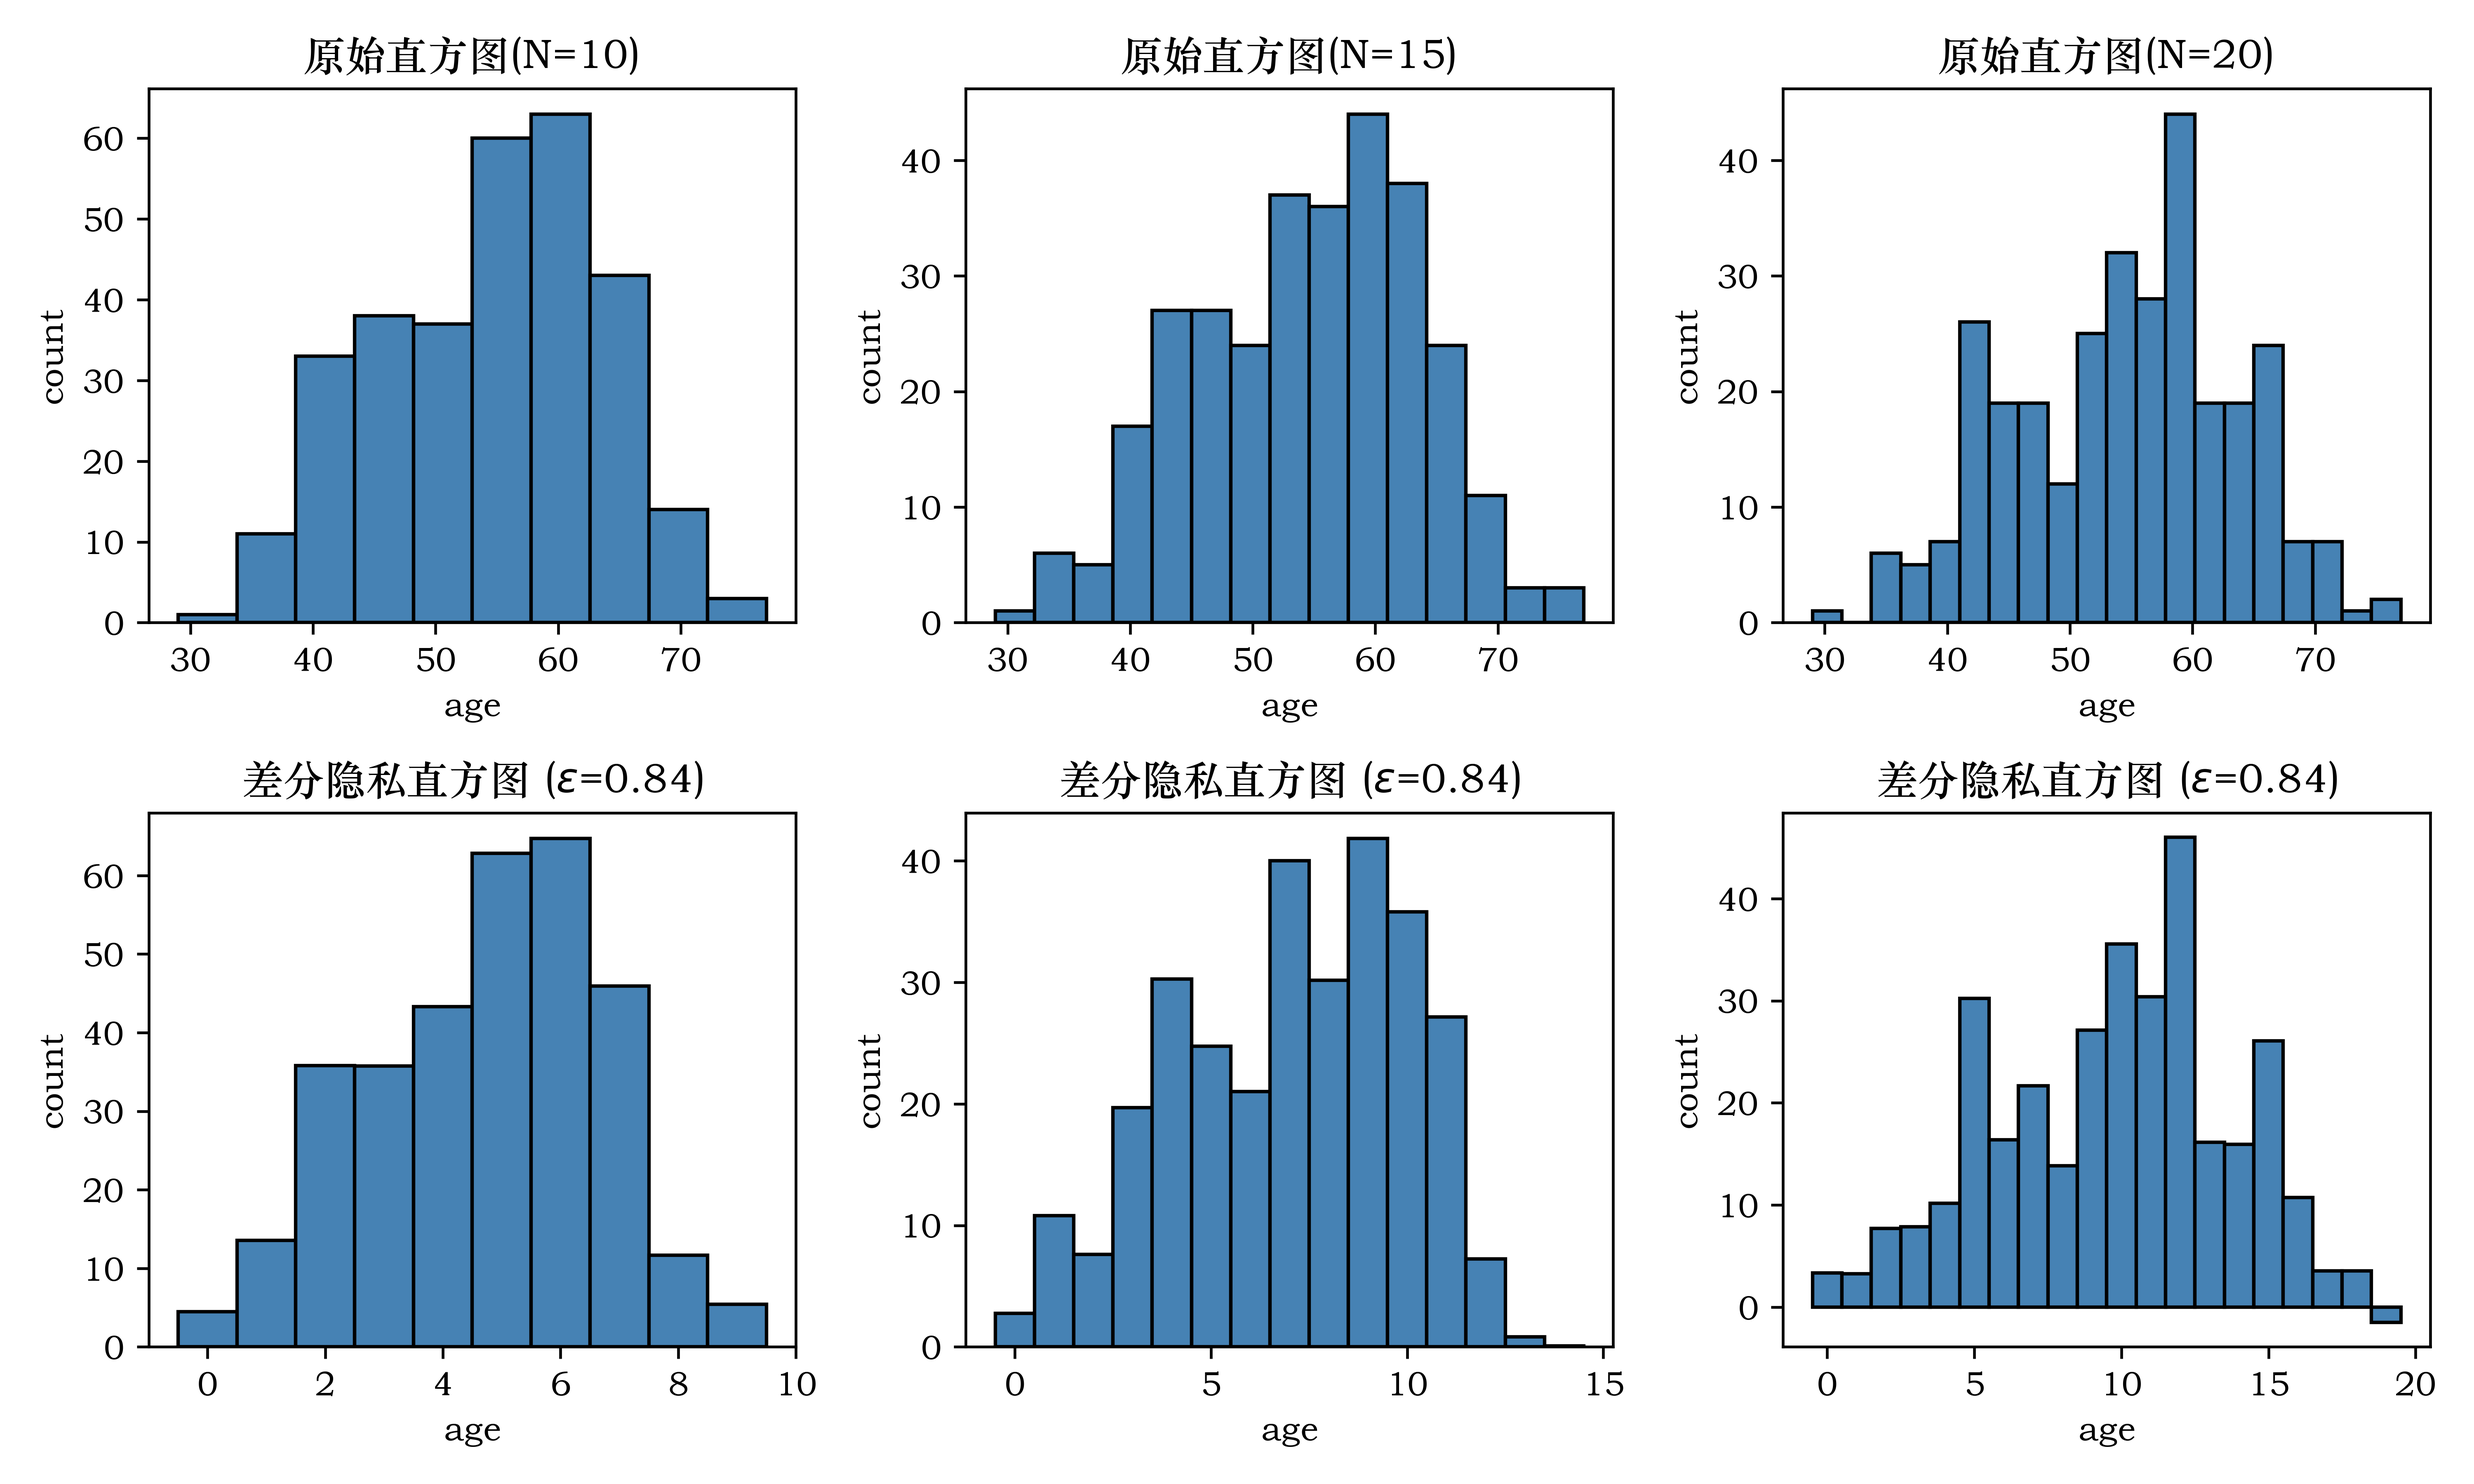
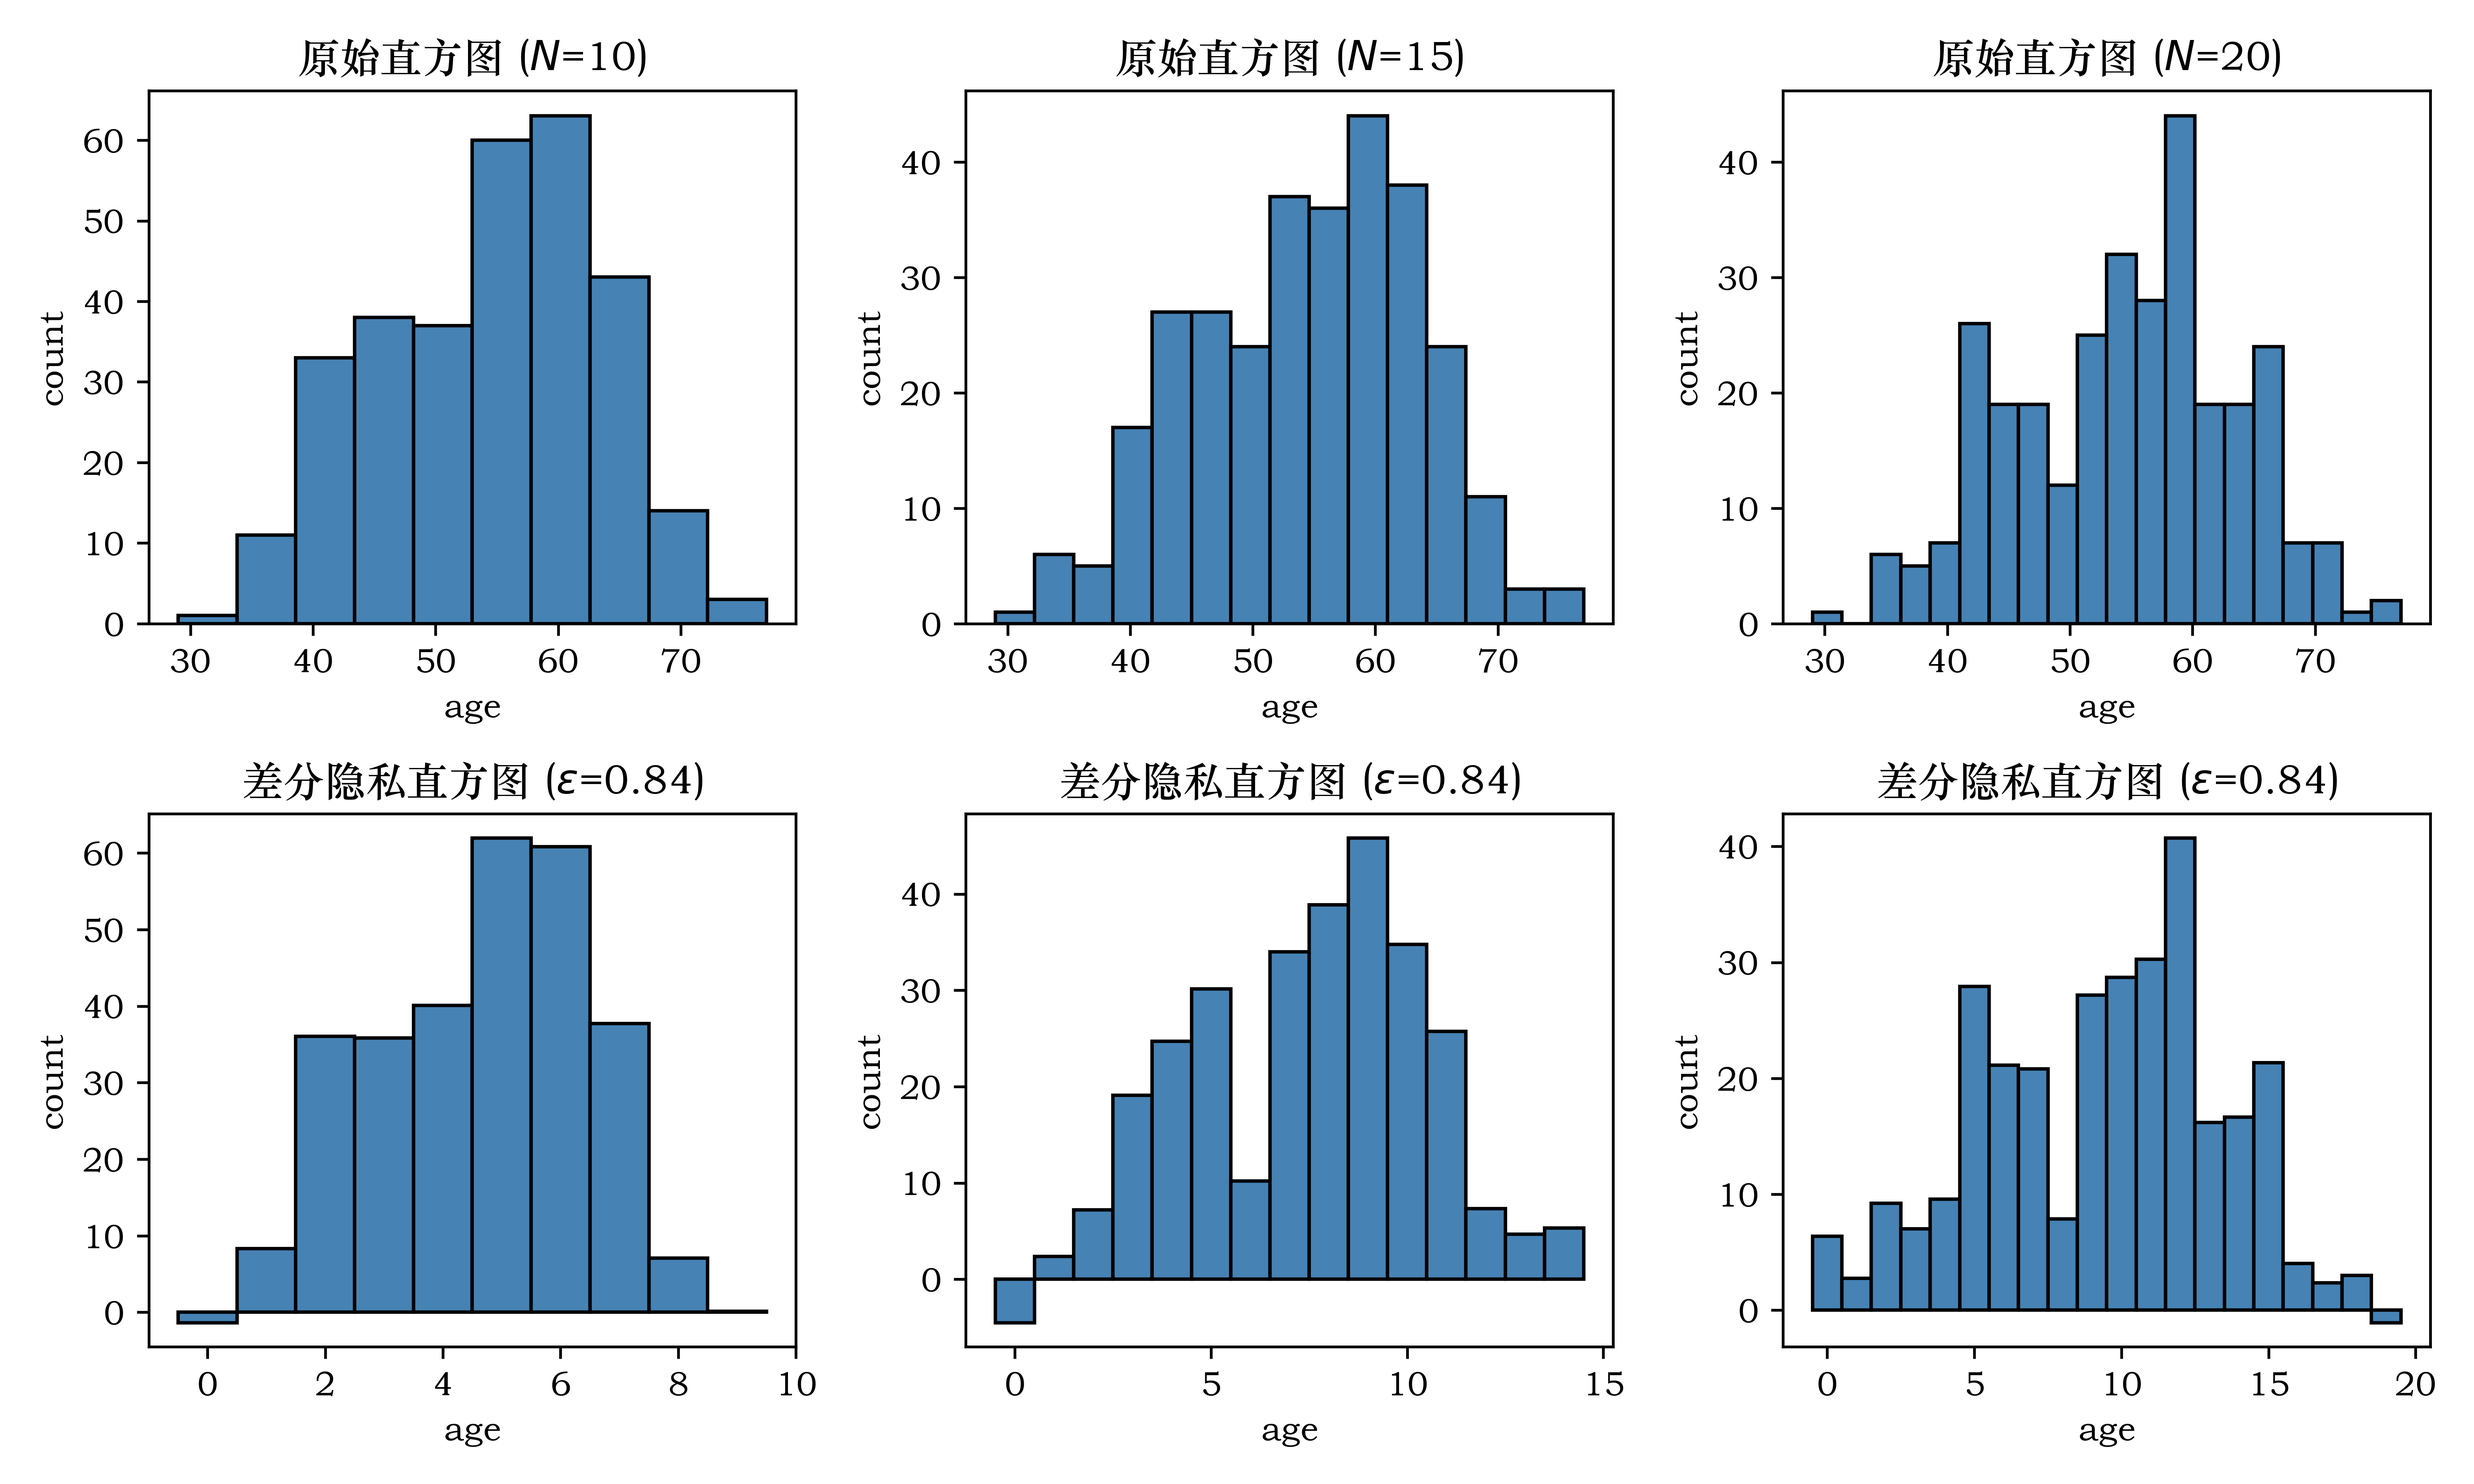
feat: 封装prob类

diff --git a/cal_price/calProb.py b/cal_price/calProb.py
@@ -1,0 +1,120 @@
+import pandas as pd
+import numpy as np
+import time
+# 属性集提取
+def _attr_extraction(data):
+    attrList = pd.read_csv(data, nrows=0).columns
+    return attrList
+
+# 贝叶斯多分类，计算属性集属于各个数据类型的权重
+def _cal_type_weight(attrList):
+    # 利用map，达到O(1)
+    demographics = {"age", "work", "education", "marital", "occupation", "relationship", "race", "sex",
+                    "nationality"}
+    health = {"height", "weight", "vision", "fat"}
+    properties = {"income", "salary", "capital", "stock"}
+    activity = {"location"}
+    consumer = {"buy_item"}
+    types = [demographics, health, properties, activity, consumer]
+    w = [0, 0, 0, 0, 0]
+    for i in range(len(types)):
+        for attr in attrList:
+             if attr in types[i]:
+                 w[i] += 1
+    _sum = sum(w)
+    for i in range(len(w)):
+        w[i] = w[i] / _sum
+    return w
+
+# 目标属性集占所有属性的比重，通过信息熵来确定，每个属性下所含的信息熵
+# 目标属性信息熵 / 总的数据集的信息熵
+def calc_ent(x):
+    """
+        calculate shanno ent of x
+    """
+    x = np.array(x)
+    x_value_list = set([x[i] for i in range(x.shape[0])])
+    ent = 0.0
+    for x_value in x_value_list:
+        p = float(x[x == x_value].shape[0]) / x.shape[0]
+        logp = np.log2(p)
+        ent -= p * logp
+
+    return ent
+
+# x = np.array([1,0,1,0,1,0,1])
+# print(calc_ent(x))
+
+def _cal_entropy(data, targetA, A):
+    A = A.tolist()
+    h = [0 for i in range(len(A))]
+    t = []
+    sum_t_h = 0
+    for attr in targetA:
+        t.append(A.index(attr))
+
+    for a in range(len(A)):
+        tmp = data[A[a]].tolist()
+        ent = calc_ent(tmp)
+        h[a] = ent
+
+    for i in t:
+        sum_t_h += h[i]
+
+    hw = sum_t_h / sum(h)
+
+    print("属性权重因子hw：",hw)
+    print("信息熵矩阵h：", h)
+    return hw
+
+# 计算攻击成功概率
+def _cal_attack_p(p):
+    # 拟合曲线
+    prob = 0.84 * np.e**(-2.44*p) + 0.13
+    return prob
+
+class CalProbability(object):
+
+    def __init__(self, data_url, targetA):
+        self.data_url = data_url
+        self.targetA = targetA
+
+
+    def _cal_prob(self):
+        data_url = self.data_url
+        # data_url = "../data/adult_2.csv"
+        data = pd.read_csv(data_url)
+        # 开始时间
+        startT = time.time()*1000 #毫秒数
+        A = _attr_extraction(data_url)
+        # 权重计算
+        W = _cal_type_weight(A)
+        # 数据类型价值矩阵
+        C = [0.3685, 0.6725, 0.19, 0.0825, 0.07]
+        p = sum(np.array(W) * np.array(C))
+        # 可信度设置
+        c = 0.9
+        p = p * c
+        # 时效性设置
+        t0 = 0
+        tc = 3
+        T = tc-t0
+        delta = 1 / ((1+0.05)**T)
+        p = p*delta
+        # 信息熵计算
+        hw = _cal_entropy(data, self.targetA, A)
+        p = p*hw
+        prob = _cal_attack_p(p)
+
+        endT = time.time() * 1000
+        interval = endT - startT
+        print("运行时间：",interval)
+        print("数据价值：",p)
+        print("攻击成功概率", prob)
+        return prob
+
+
+# 计算相应的攻击成功概率
+data_url = '../data/heart.csv' #2018年
+prob = CalProbability(data_url, ['age', 'target'])._cal_prob()
+print(prob)

diff --git a/cal_price/hist.py b/cal_price/hist.py
@@ -3,15 +3,18 @@ import pandas as pd
 import matplotlib.pyplot as plt
 
 from cal_price import utility
+from cal_price.calProb import CalProbability
 
 plt.rcParams['font.sans-serif'] = ['STZhongsong']
 plt.rcParams['axes.unicode_minus'] = False
 plt.rcParams['figure.dpi'] = 600
 plt.rcParams['figure.figsize'] = (10,6)
 
-charge_data = pd.read_csv("../data/insurance.csv")
+# charge_data = pd.read_csv("../data/insurance.csv")
 heart_data = pd.read_csv("../data/heart.csv")
+heart_data_url = "../data/heart.csv"
 credit_data = pd.read_csv("../data/german_credit_data.csv")
+income_data_url = "../data/adult_2.csv"
 age = heart_data["age"]
 # age = credit_data["Age"]
 N = len(age)
@@ -25,8 +28,8 @@ MSE = []
 
 # 计算目标直方图的数据价值
 # 计算相应的攻击成功概率
-acc = 0.83
-pub_acc = acc
+prob = CalProbability(income_data_url)._cal_prob()
+print(prob)
 
 
 def geo_mech(lamda):
@@ -51,7 +54,7 @@ for k in range(len(n_equal_bins)):
     plt.hist(x = age, bins =n_equal_bins[k], color='SteelBlue', edgecolor = "black")
     plt.xlabel("age")
     plt.ylabel("count")
-    plt.title("原始直方图" + "(N="+ str(n_equal_bins[k]) +")")
+    plt.title("原始直方图" + " ($N$="+ str(n_equal_bins[k]) +")")
     plt.tight_layout()
 
     # DP Histogram 1
